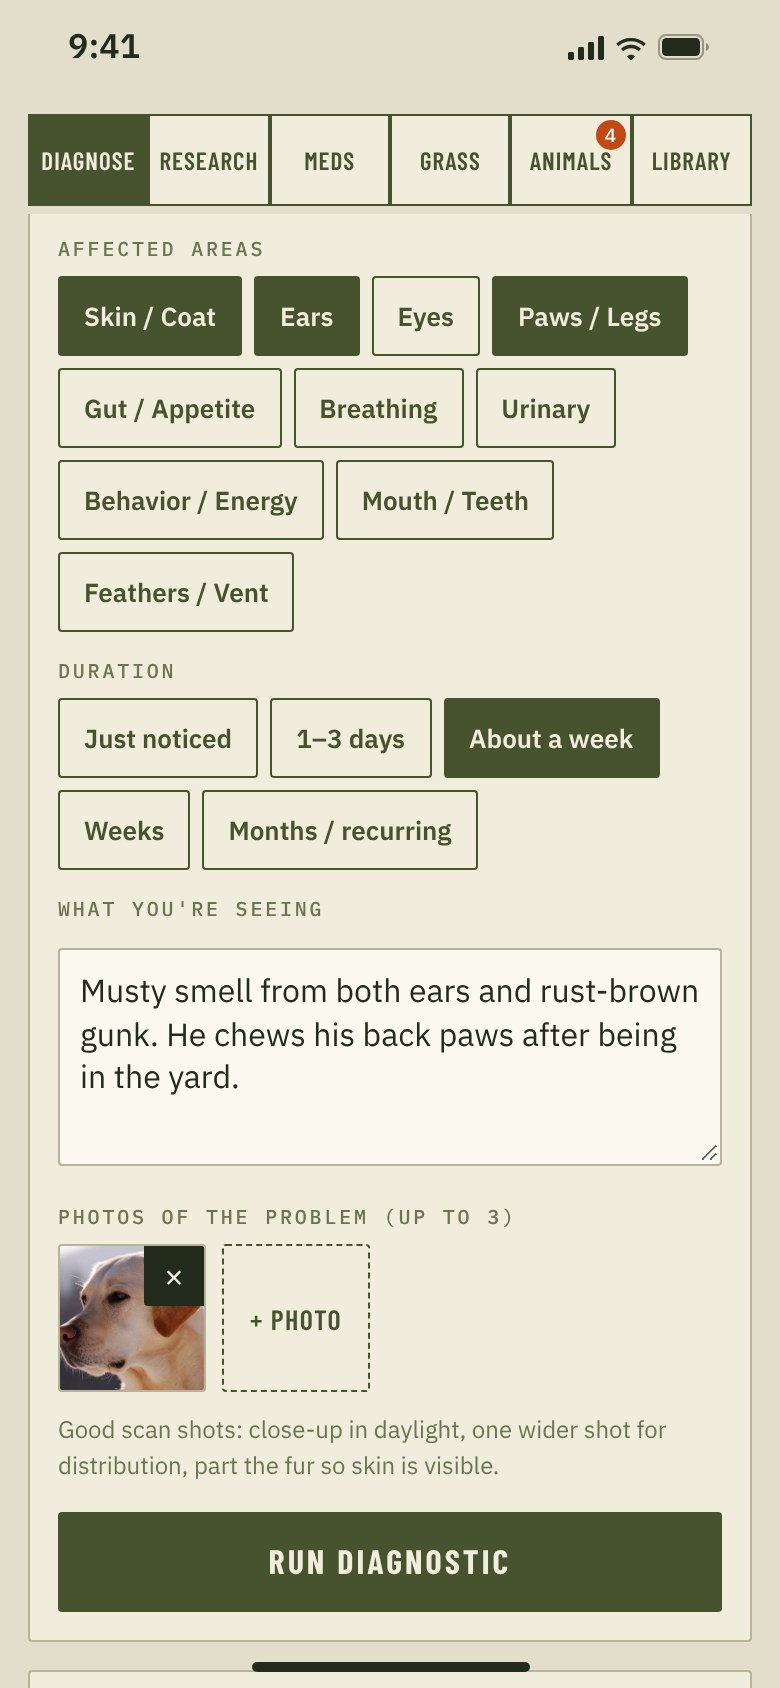
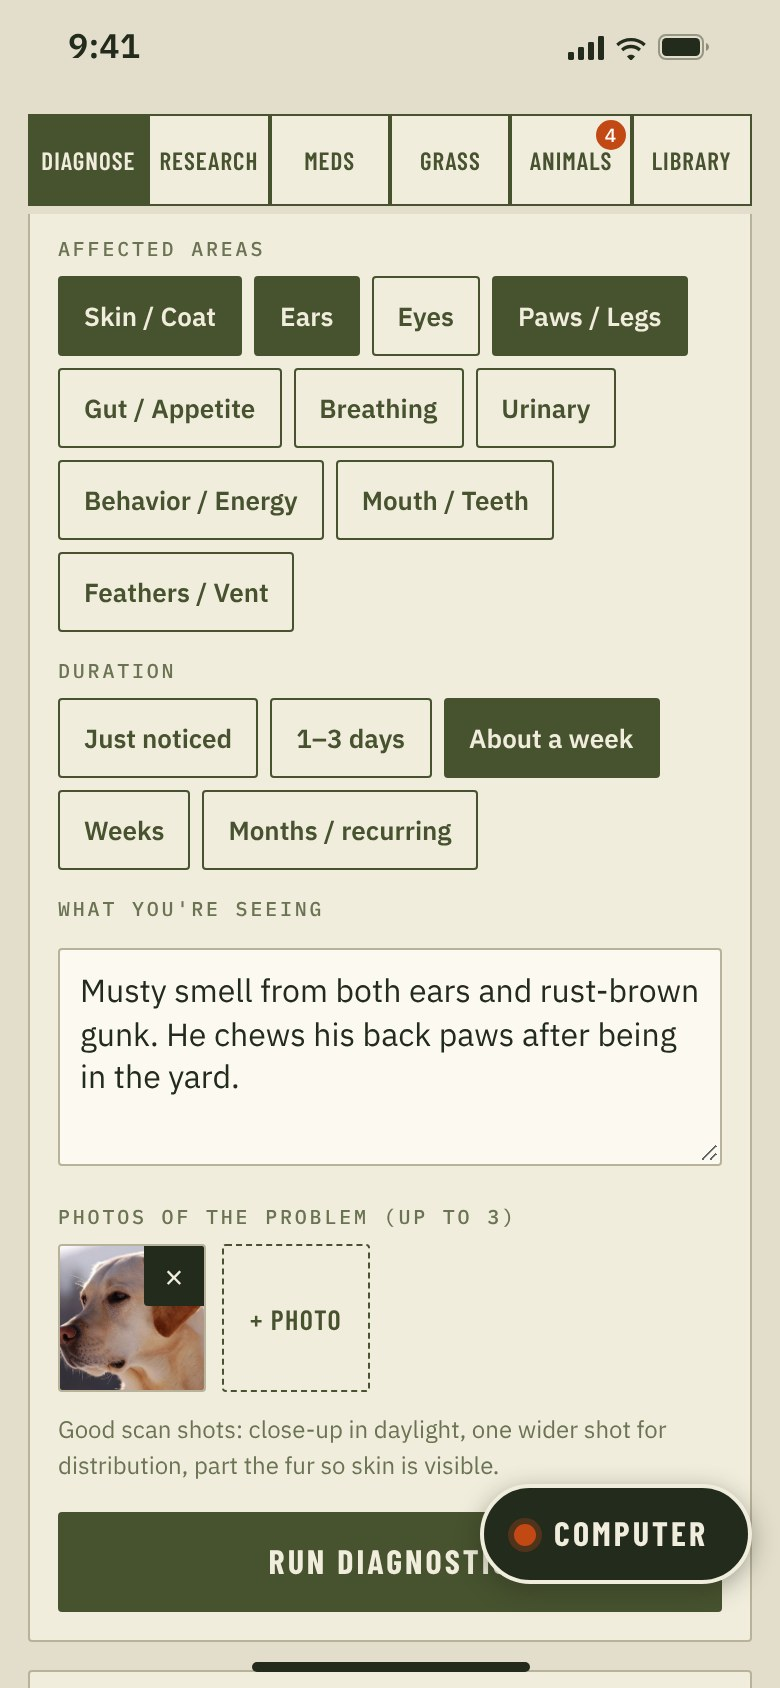
Rooststead: pages say what the Field Computer is and what its questions send
Claude-Session: https://claude.ai/code/session_01VwhTu7Pb4KX1P1FW6kQt7f

Changed region(s): [[0.6154, 0.8626, 0.9846, 0.955]]

diff --git a/rooststead/privacy/index.html b/rooststead/privacy/index.html
@@ -23,7 +23,7 @@
     <ul>
       <li>No account, no ads, no tracking and no analytics.</li>
       <li>Everything you save (your animals, the lump log, the library, your lists and settings) stays on your device.</li>
-      <li>A lookup sends the animal’s details, what you typed and any photos you attached to our server, which passes them to Anthropic’s Claude to write the answer. None of that is sent until you agree in the app.</li>
+      <li>A lookup sends the animal’s details, what you typed and any photos you attached (and, for a Field Computer question, that conversation and the animal’s lump log) to our server, which passes them to Anthropic’s Claude to write the answer. None of that is sent until you agree in the app.</li>
       <li>Our server keeps counts of lookups. It does not keep what you typed, your photos or the answers.</li>
       <li>Rooststead Pro is bought through Apple. We never see your payment details.</li>
       <li>We do not sell your information, and we do not share it for advertising.</li>
@@ -43,12 +43,13 @@
   <p><strong>Backup and restore</strong> makes a copy of your records for you to keep. It goes only where you put it. If you back up your iPhone or iPad with iCloud or a computer, that backup may include the app’s records, under your own Apple settings.</p>
 
   <h2>What a lookup sends</h2>
-  <p>A lookup is a question the app asks our server for you: a diagnostic, a care protocol, a research question, the medication reference, a medication lookup, the grass guide or a grass lookup. Before your first lookup the app shows what will be sent and to whom, and asks you to agree. Nothing about your animals, nothing you typed and no photo is sent before you agree.</p>
+  <p>A lookup is a question the app asks our server for you: a diagnostic, a care protocol, a research question, the medication reference, a medication lookup, the grass guide, a grass lookup or a question to the Field Computer that it cannot answer on your device. Before your first lookup the app shows what will be sent and to whom, and asks you to agree. Nothing about your animals, nothing you typed and no photo is sent before you agree.</p>
   <p>Each lookup sends:</p>
   <ul>
     <li><strong>The animal’s details</strong> for that lookup: species, breed, age, weight, whether it is spayed or neutered, allergies and your notes about it.</li>
     <li><strong>What you typed or picked</strong> for that lookup, such as the areas affected, how long it has been going on, your description, your question, a product or plant name, and a region if you typed one.</li>
     <li><strong>Any photos you attached</strong> (up to three, on a diagnostic lookup).</li>
+    <li><strong>For a Field Computer question:</strong> your question, the earlier lines of that conversation (eight at most) and, when you have chosen an animal for it, that animal’s lump log entries (where, size, feel, note and date). In lines the Field Computer wrote from your records, an animal’s name is replaced before sending. What you typed yourself is sent as you typed it.</li>
     <li><strong>The app’s random device id.</strong> The app makes this id itself the first time it runs. It is not your device’s serial number or an advertising id, and it is not linked to your name, your Apple Account or any other app. Its only job is to let the server count the free lookups. It is kept in your device’s secure storage (the Keychain), so it can stay the same if you delete the app and install it again.</li>
     <li><strong>Apple’s signed record of your subscription</strong>, when Rooststead Pro is active, so the server can check that it is real. It names the plan, its dates and price, the App Store country, Apple’s transaction numbers and a few technical fields Apple adds. It does not contain your name, your email, your Apple Account or your payment details.</li>
   </ul>

diff --git a/rooststead/support/index.html b/rooststead/support/index.html
@@ -32,10 +32,13 @@
     <p>No. Rooststead is animal-care reference information. It does not diagnose or treat your animal, and its answers are written by an AI system that can be wrong. Confirm every dose and drug with the product label and a veterinarian. Prescription (Rx) items need a veterinarian’s prescription. Rooststead is for animals only, never for people. The <a href="../terms/">Terms of Use</a> say this in full.</p>
 
     <h3>What is a lookup?</h3>
-    <p>A lookup is a question that Rooststead’s server answers for you: a diagnostic, a care protocol, a research question, the medication reference, a medication lookup, the grass guide or a grass lookup. The server passes it to Anthropic’s Claude, an AI system, which writes the answer. Reference photos come with a lookup and do not count as one.</p>
+    <p>A lookup is a question that Rooststead’s server answers for you: a diagnostic, a care protocol, a research question, the medication reference, a medication lookup, the grass guide, a grass lookup or a Field Computer question it cannot answer on your device. The server passes it to Anthropic’s Claude, an AI system, which writes the answer. Reference photos come with a lookup and do not count as one.</p>
+
+    <h3>What is the Field Computer?</h3>
+    <p>Tap the round <strong>Computer</strong> button and ask in plain words. What it can work out from your own records it answers on your device at once, with no connection and without using a lookup: which lumps grew, your animals and library, unit conversions and sums, due dates and hatch dates, and how the app works. Words that sound like an emergency get “call your veterinarian or an emergency clinic now” straight away. Any other question goes out as a lookup, after you agree, with the chosen animal’s details and its lump log. Each answer is marked <strong>From this device</strong> or <strong>Lookup</strong>. It never works out a dose on the device.</p>
 
     <h3>Does it need the internet?</h3>
-    <p>Lookups do. Your animals on file, the lump log, the Tow-it-in list, the library and backup work with no connection.</p>
+    <p>Lookups do. Your animals on file, the lump log, the Tow-it-in list, the library, backup and the Field Computer’s answers from your own records work with no connection.</p>
 
     <h3>Where is the lump log?</h3>
     <p>Open the <strong>Animals</strong> tab and go to the <strong>Lump log</strong> section.</p>

diff --git a/rooststead/index.html b/rooststead/index.html
@@ -45,6 +45,7 @@
   <ul>
     <li><strong>Diagnose:</strong> pick the animal, mark the areas affected, say how long it has been going on and describe it. Attach up to three photos. You get the conditions that may fit, how closely each one fits and what tells them apart, with signs of an emergency flagged.</li>
     <li><strong>Protocols:</strong> a step-by-step care reference for a condition: what it is, what confirms it, likely causes, the steps in order, products, how long it should take, when to escalate and how to prevent it.</li>
+    <li><strong>Field Computer:</strong> ask anything in plain words. From your own records it answers on your device at once, with no connection and without using a lookup: which lumps grew, conversions and sums, due dates and hatch dates. Anything else goes out as a lookup that uses the animal’s record and lump log.</li>
     <li><strong>Research:</strong> ask an animal-care question in plain words and get a short summary, the key points and the cautions.</li>
     <li><strong>Meds:</strong> a medication reference by category, and a lookup of any product by name. Each entry says whether it kills, only suppresses or is supportive, and whether it is sold over the counter or needs a prescription.</li>
     <li><strong>Grass:</strong> a grass and yard guide for your species and region (allergy, awn, toxic or safe), and a lookup of any plant by name.</li>
